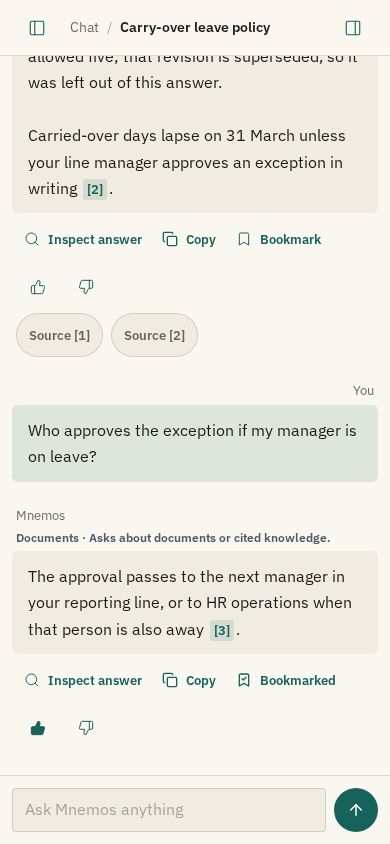
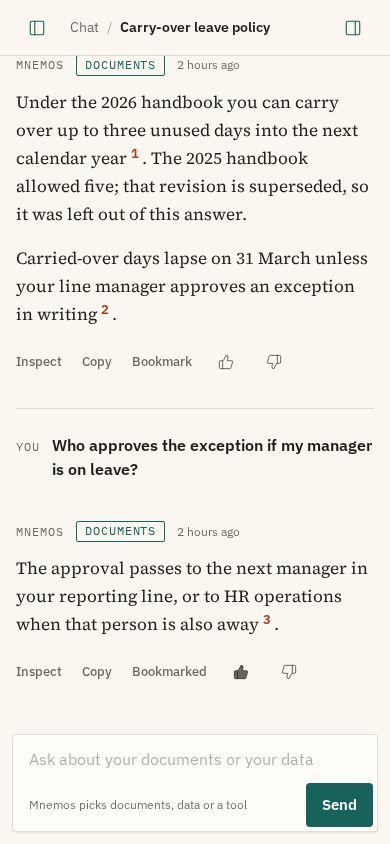
docs(screens): recapture the conversation as a document

Changed region(s): [[0.0308, 0.4621, 0.9846, 0.9858], [0.0308, 0.0616, 0.9538, 0.4313], [0.6769, 0.7701, 0.8615, 0.8318]]

diff --git a/frontend/screens/screens.spec.ts b/frontend/screens/screens.spec.ts
@@ -58,10 +58,12 @@ test("chat", async ({ page }, info) => {
 test("chat with a citation open", async ({ page }, info) => {
   await page.goto("/chat/s1");
   await page.getByRole("button", { name: /Show source 1/ }).first().click();
-  const inspector = isPhone(page)
-    ? page.getByRole("dialog", { name: "Context inspector" })
+  // On a phone the source opens under its paragraph; on a desktop, beside it
+  // in the margin and in full in the inspector.
+  const where = isPhone(page)
+    ? page.getByRole("button", { name: "Open source 1 in the inspector", exact: true }).locator("xpath=ancestor::div[1]/..")
     : page.getByRole("complementary", { name: "Context inspector" });
-  await expect(inspector.getByText("carry over a maximum of three").first()).toBeVisible();
+  await expect(where.getByText("carry over a maximum of three").first()).toBeVisible();
   await shoot(page, "citation", info.project.name);
 });
 

diff --git a/docs/screens/README.md b/docs/screens/README.md
@@ -14,7 +14,7 @@ Each file is `<width>-<scheme>-<screen>.jpg`:
 |---|---|
 | `overview` | `/` |
 | `chat` | `/chat/s1`, a two-turn conversation answered from documents |
-| `citation` | the same conversation with source 1 open in the context inspector |
+| `citation` | the same conversation with source 1 opened: in the inspector on a desktop, under its paragraph on a phone |
 | `menu` | the account menu open (appearance, sign-out); on a phone, over the navigation sheet |
 | `knowledge` | `/knowledge`, including a superseded revision and a document still processing |
 | `sources` | `/sources` with a source selected, its items, and running, failed and finished jobs |
